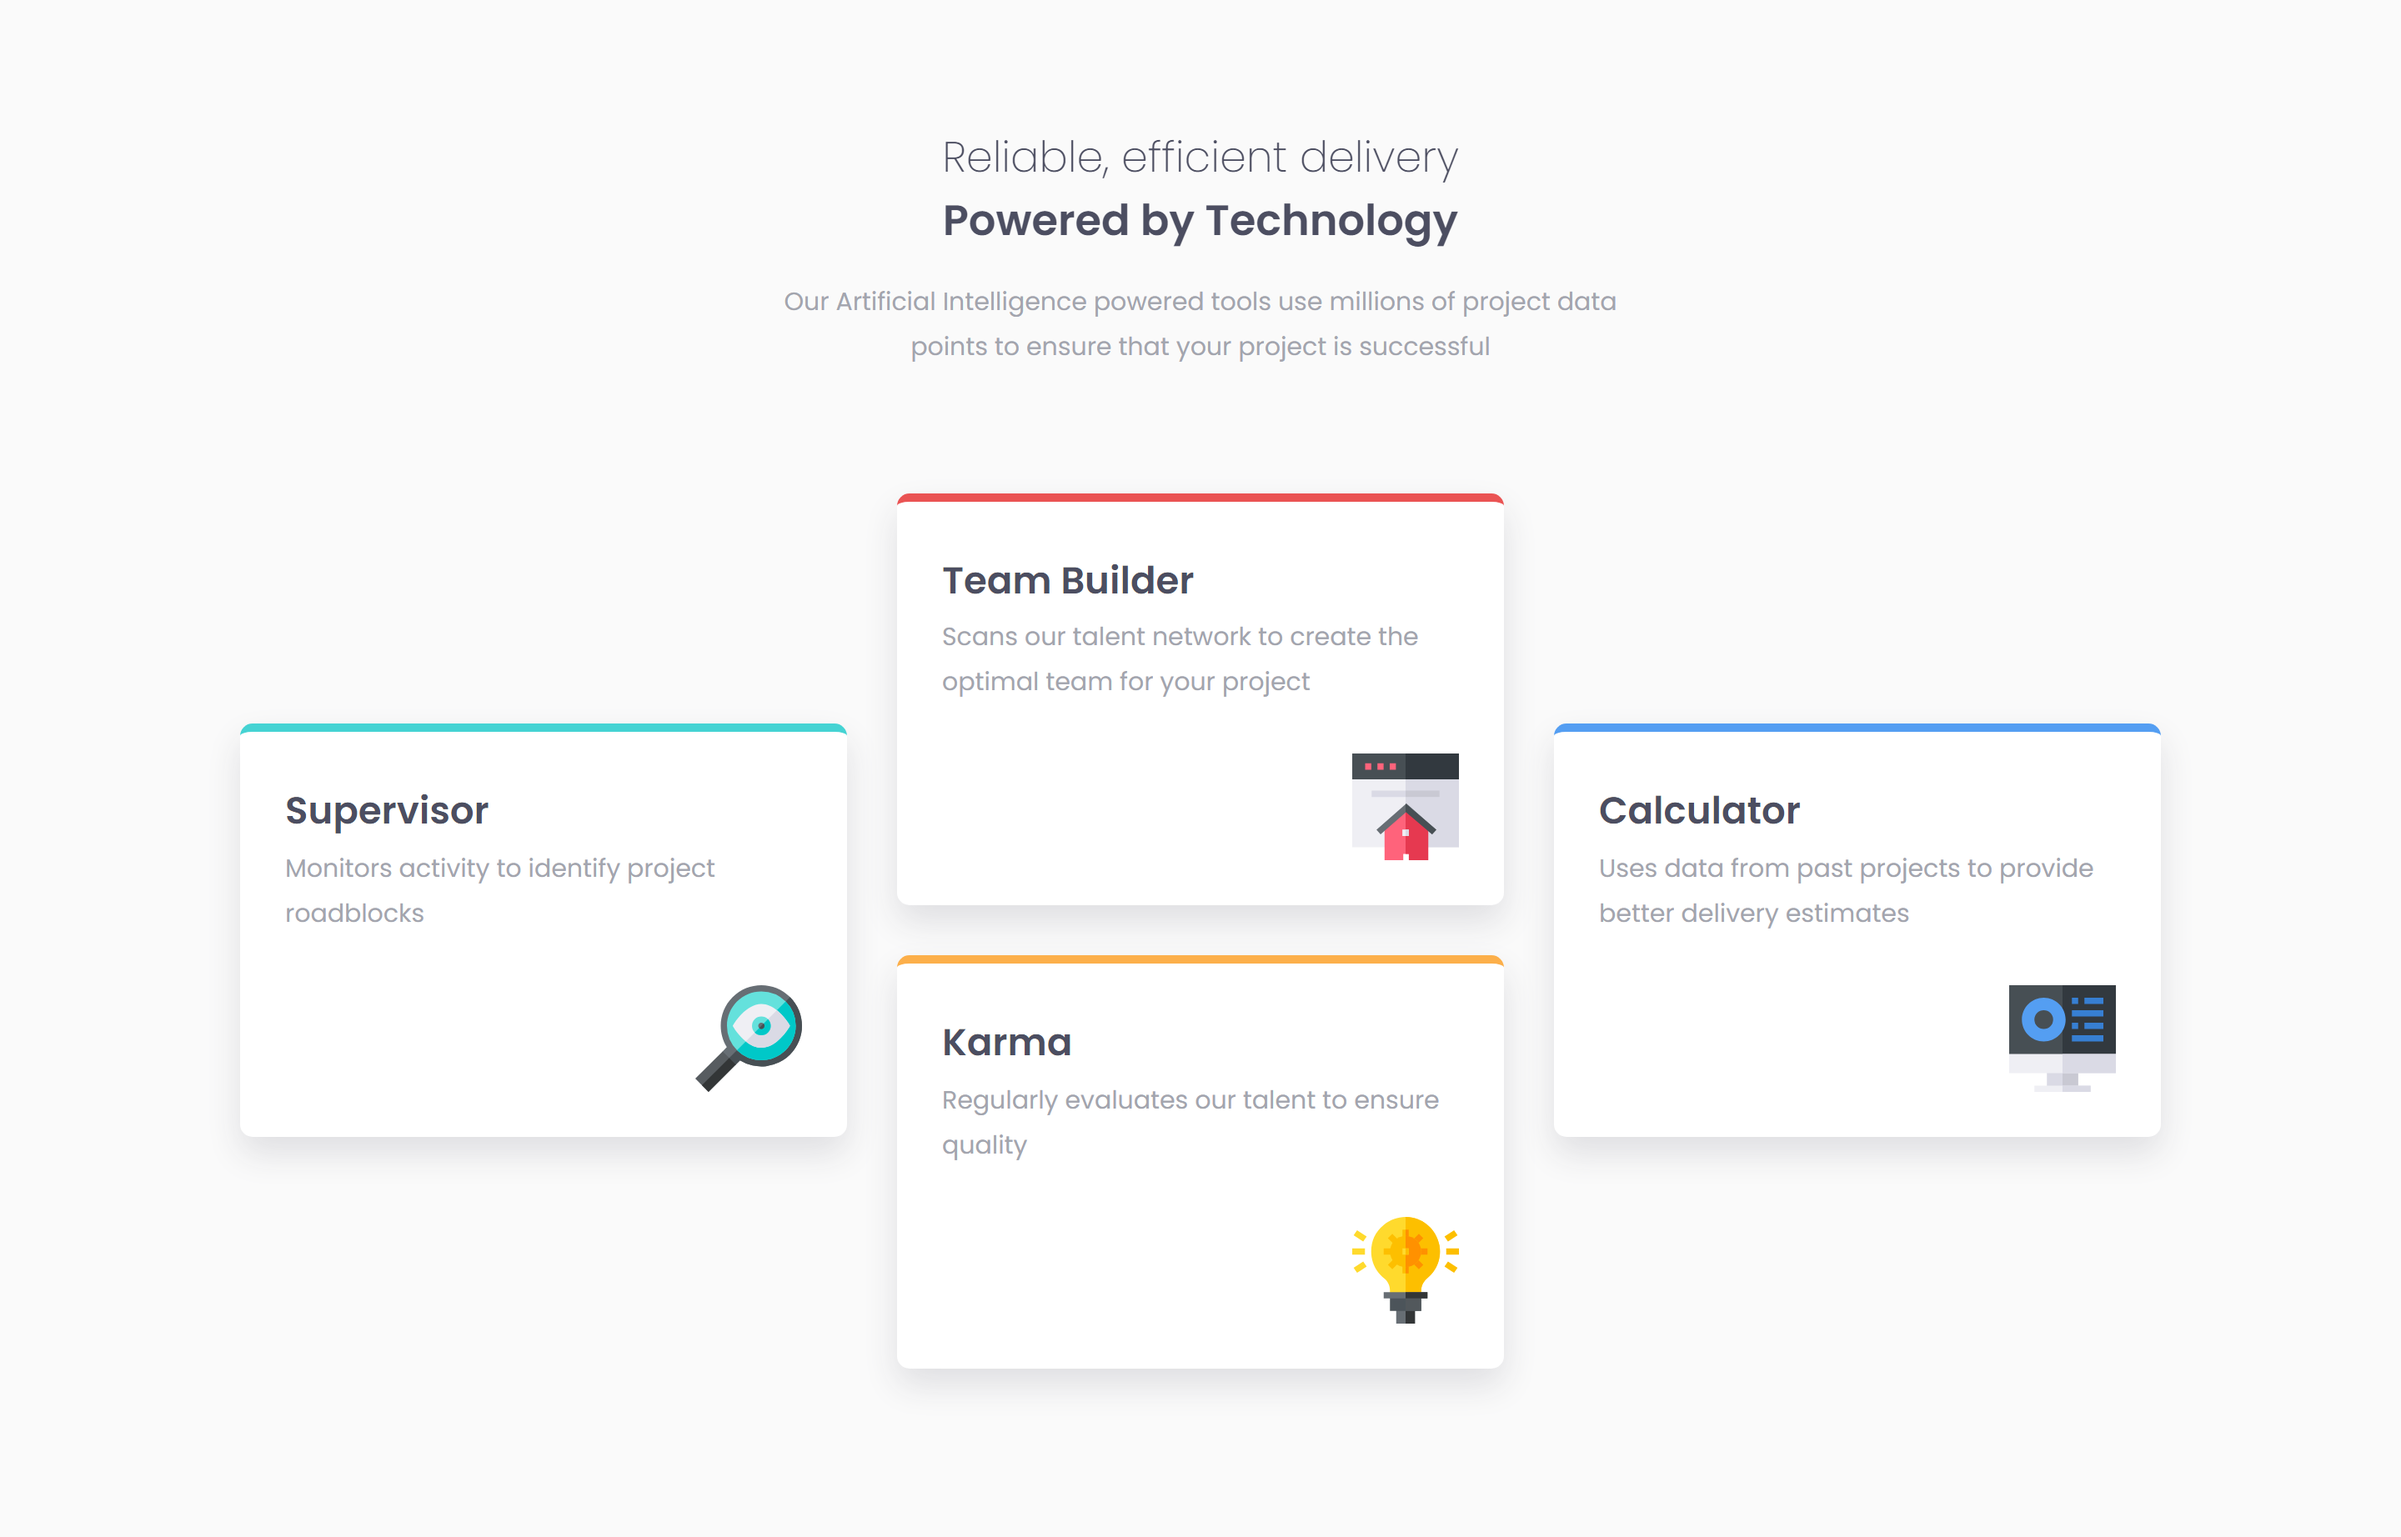
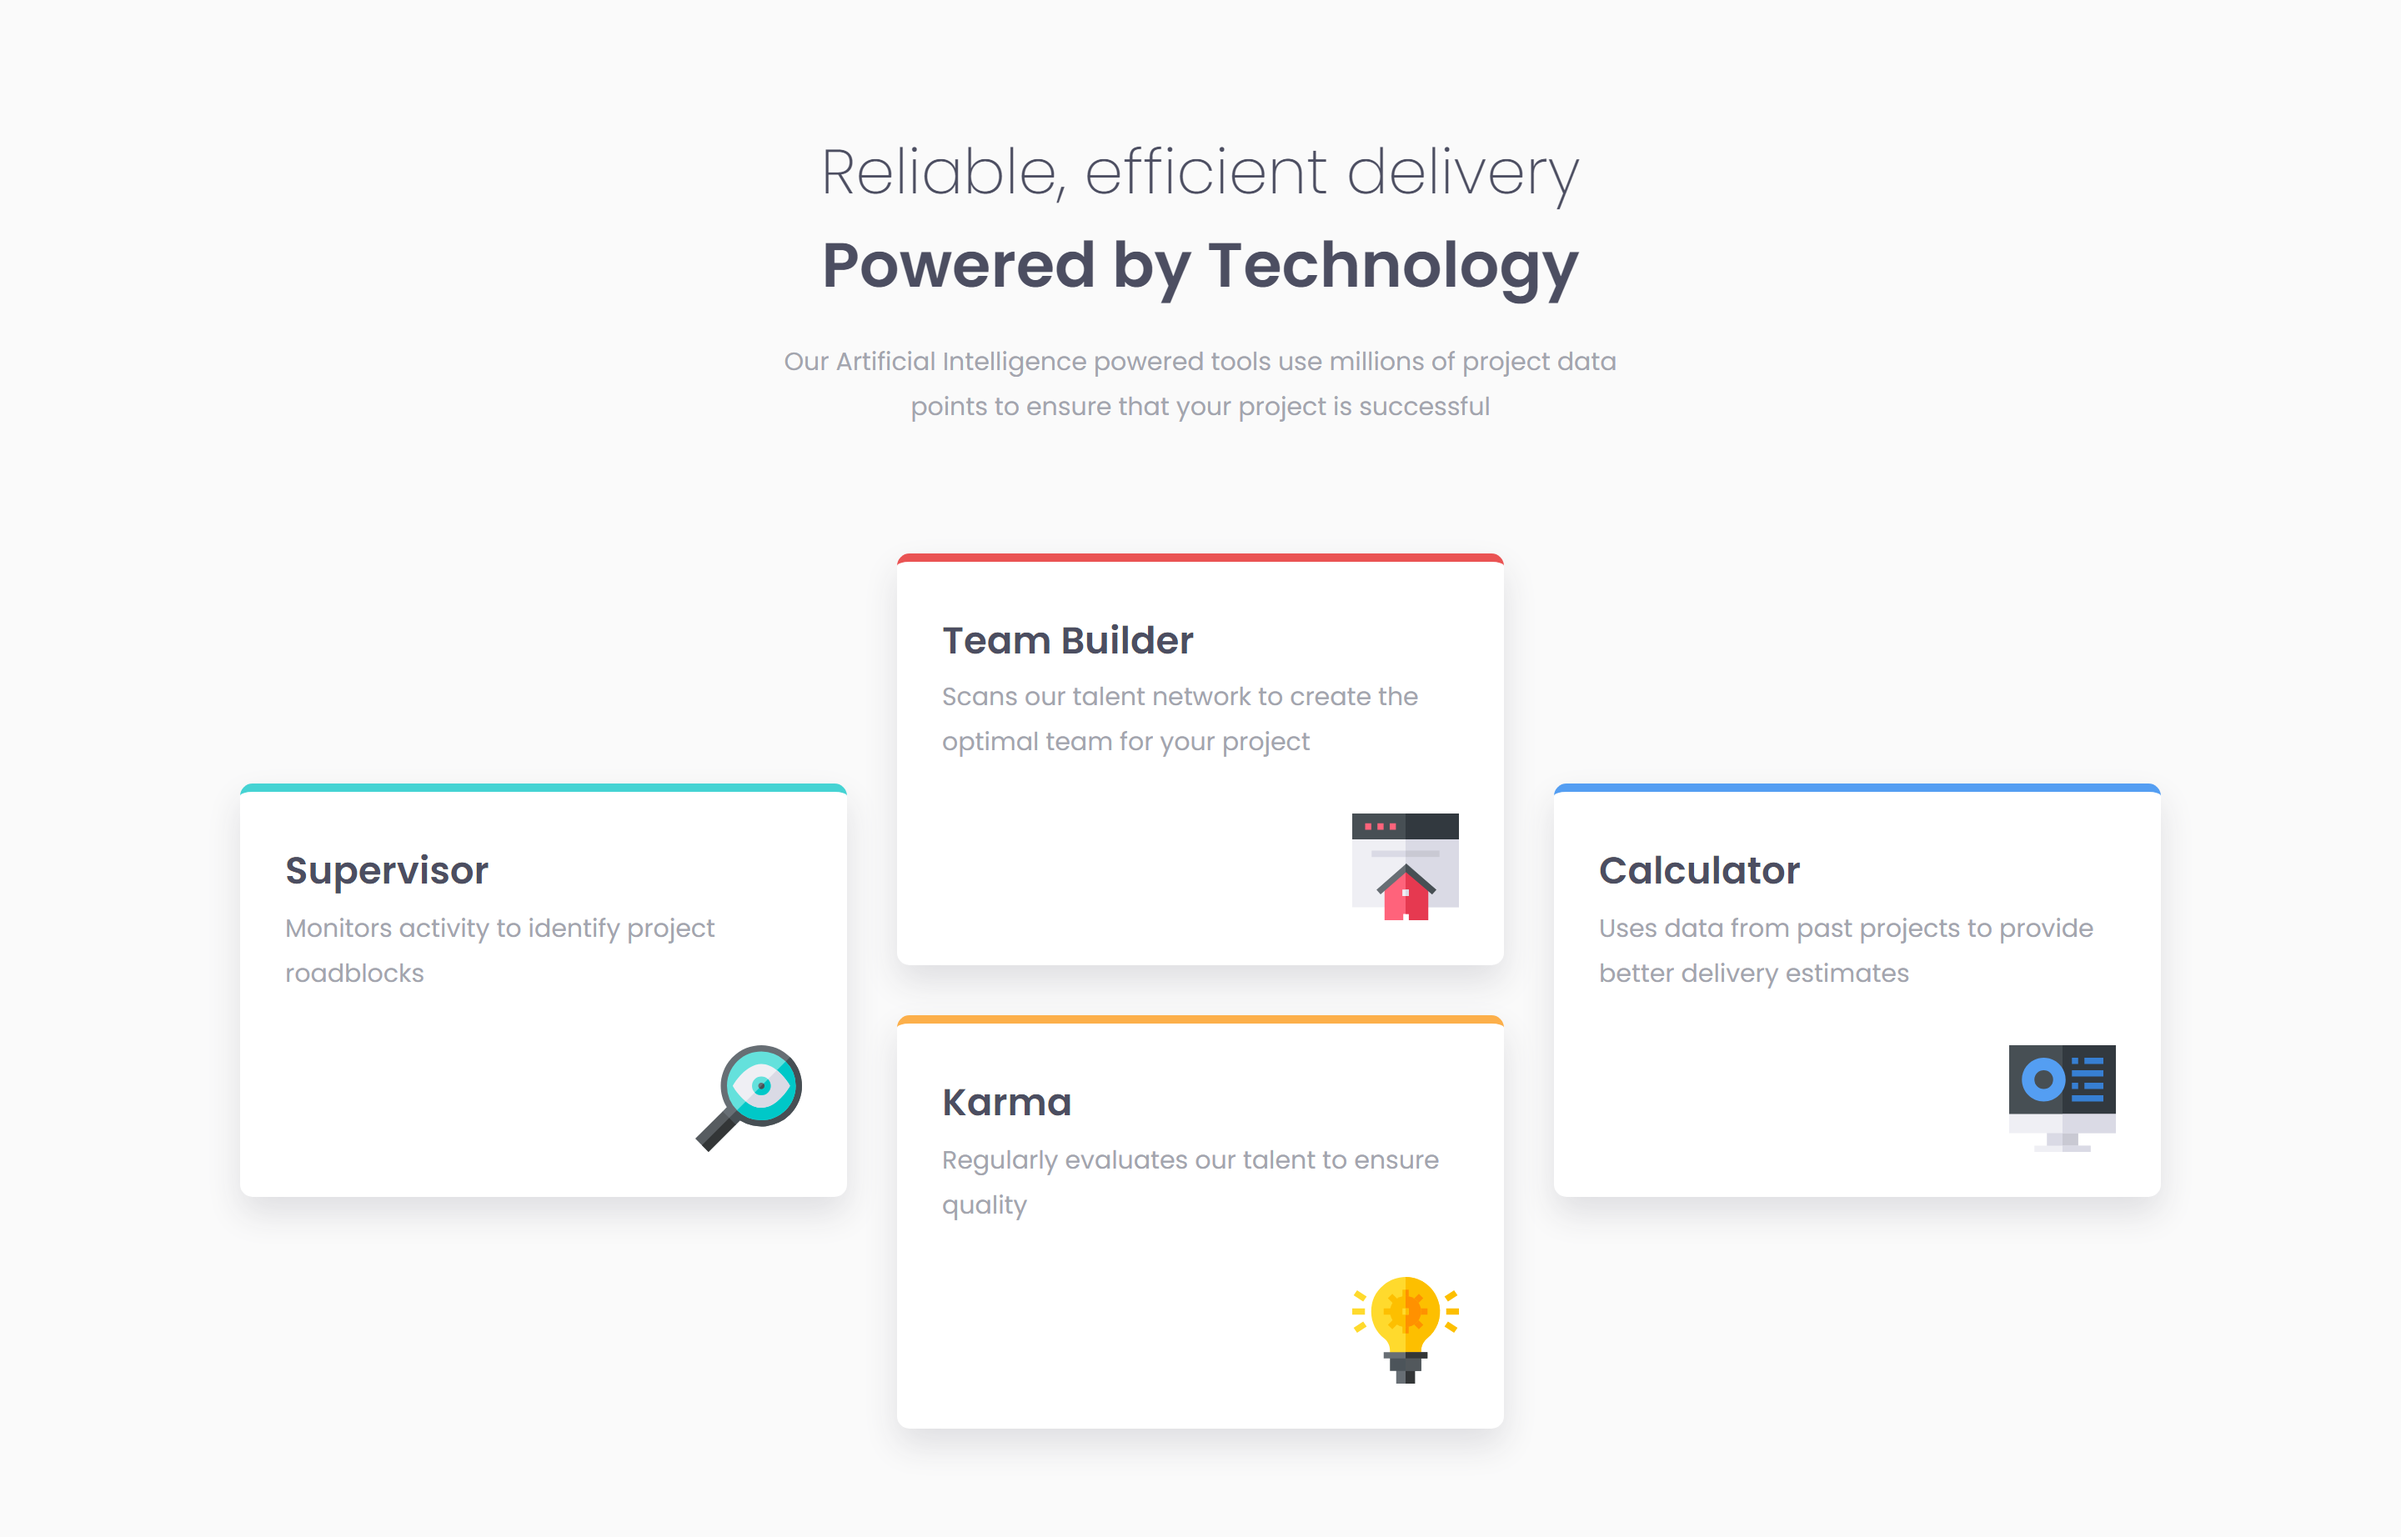
update urls and pics

diff --git a/styles.css b/styles.css
@@ -77,7 +77,7 @@ h6 {
 
     /* Fonts */
     --main-heading-size: 1.7rem;
-    --feature-heading-size: 1.2rem;
+    --feature-heading-size: 1.5rem;
 }
 
 /* Global Styles */

diff --git a/README.md b/README.md
@@ -37,8 +37,8 @@ Users should be able to:
 
 ### Links
 
-- Solution URL: [Add solution URL here](https://your-solution-url.com)
-- Live Site URL: [Add live site URL here](https://your-live-site-url.com)
+- Solution URL: [Solution URL](https://www.frontendmentor.io/solutions/responsive-four-card-feature-section-DGOcwT90DL)
+- Live Site URL: [Live Site URL](https://frontendmentor-ilyesab.github.io/four-card-feature-section/)
 
 ## My process
 
